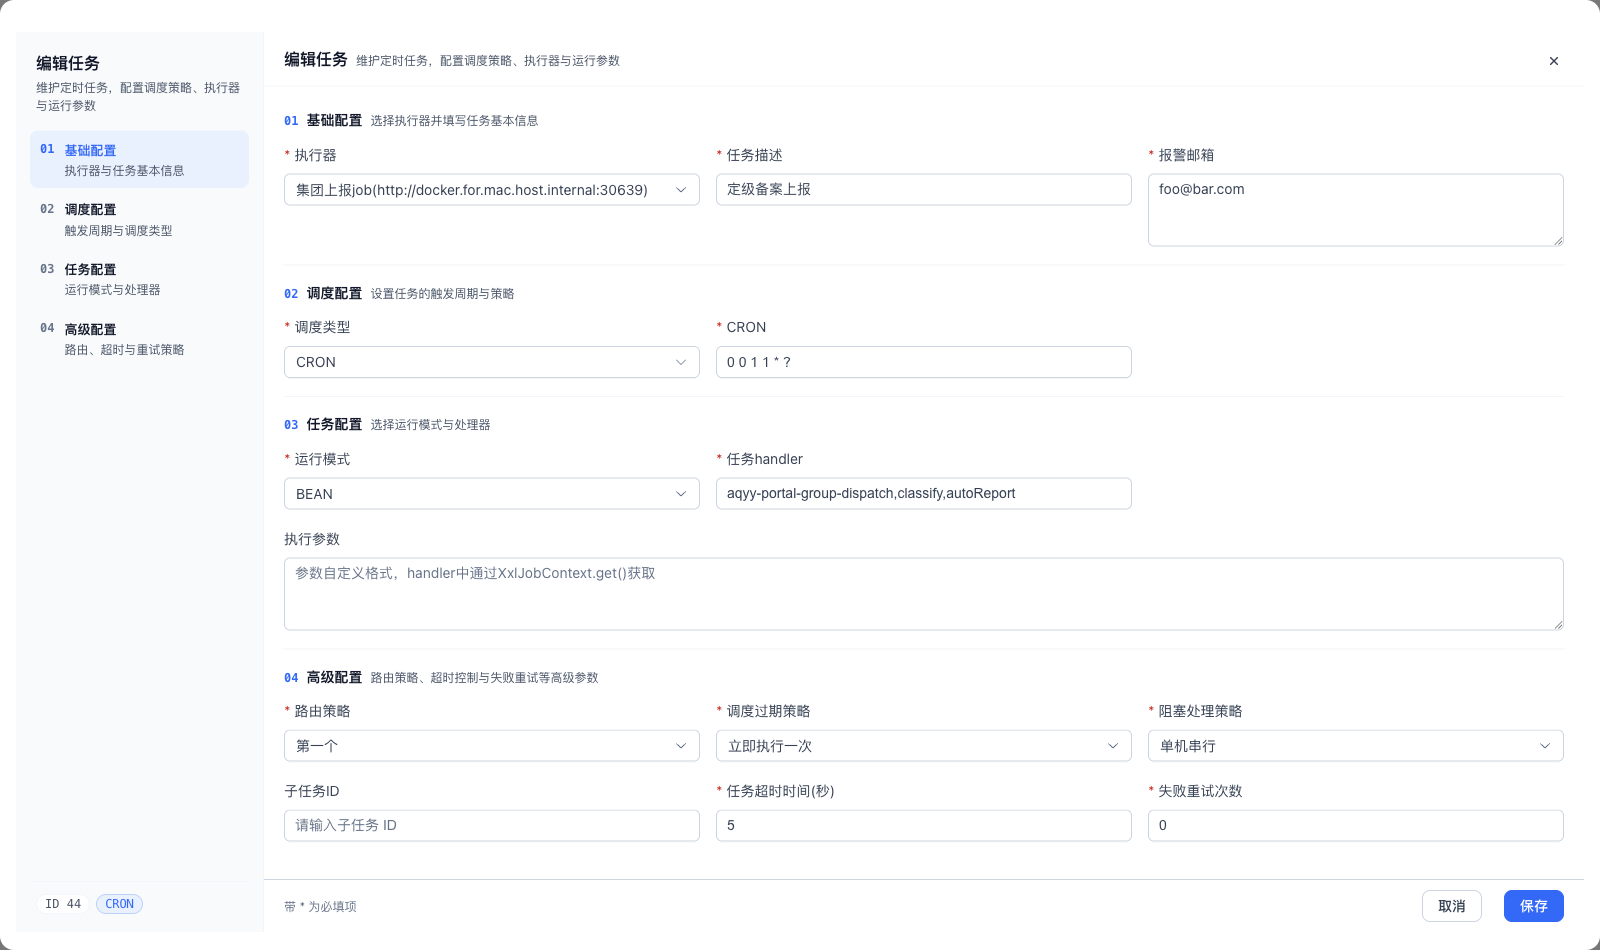
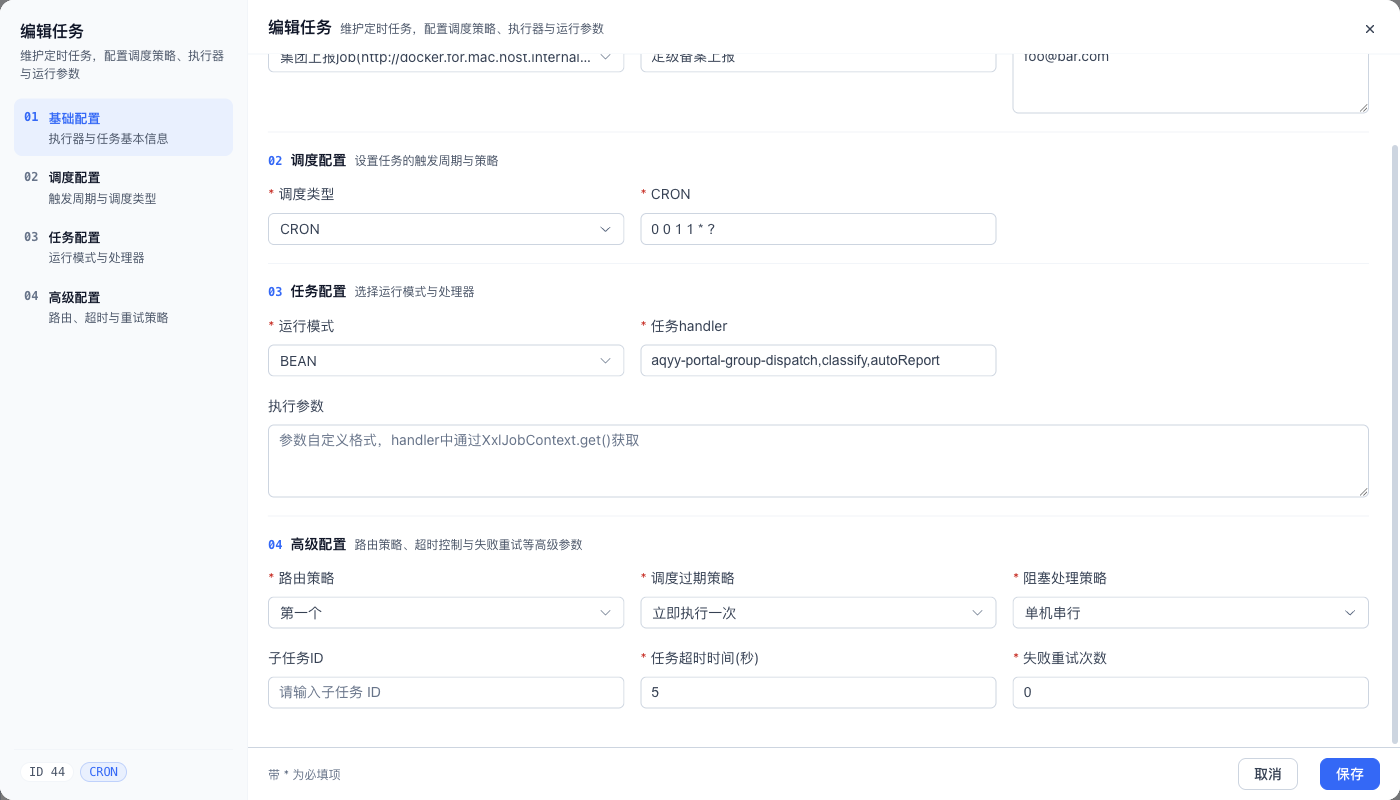
fix: 任务编辑弹窗改用非 scoped 样式约束高度，左侧导航固定、右侧表单区滚动

diff --git a/xxl-job-admin/src/main/resources/static/src/views/task/list.vue b/xxl-job-admin/src/main/resources/static/src/views/task/list.vue
@@ -1114,24 +1114,6 @@ const downloadTemplate = () => {
 /* ============================================================
    任务编辑器：左侧步骤导航 + 右侧表单
    ============================================================ */
-.task-dialog :deep(.el-dialog) {
-  display: flex;
-  flex-direction: column;
-  height: 100vh;
-  margin: 0;
-  border-radius: 0;
-}
-
-.task-dialog :deep(.el-dialog__header) { display: none; }
-
-/* 弹窗主体撑满剩余高度并禁止自身滚动，滚动只发生在右侧表单区 */
-.task-dialog :deep(.el-dialog__body) {
-  flex: 1;
-  min-height: 0;
-  padding: 0;
-  overflow: hidden;
-}
-
 .te {
   display: grid;
   grid-template-columns: 248px minmax(0, 1fr);
@@ -1359,4 +1341,29 @@ const downloadTemplate = () => {
   .te-nav { display: none; }
   .te-grid { grid-template-columns: 1fr; }
 }
+</style>
+
+<style>
+/* 任务编辑弹窗：el-dialog 被 teleport 到 body，且 class 落在 .el-dialog 自身上，
+   scoped + :deep(.el-dialog) 匹配不到，必须用非 scoped 且写成 .el-dialog.task-dialog */
+.el-dialog.task-dialog {
+  display: flex;
+  flex-direction: column;
+  height: 100vh;
+  margin: 0;
+  padding: 0;
+  border-radius: 0;
+  overflow: hidden;
+}
+
+.el-dialog.task-dialog .el-dialog__header { display: none; }
+
+.el-dialog.task-dialog .el-dialog__body {
+  flex: 1;
+  min-height: 0;
+  padding: 0;
+  overflow: hidden;
+}
+
+.el-dialog.task-dialog .el-dialog__footer { display: none; }
 </style>
